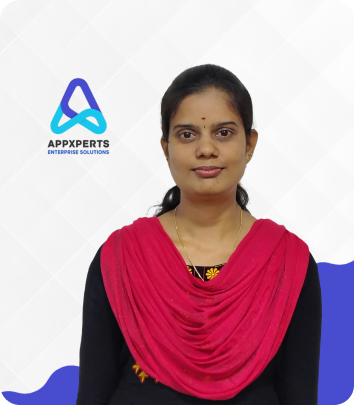
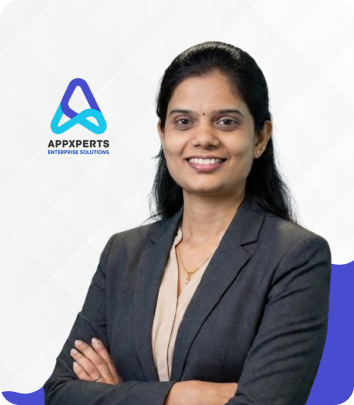
Added tagline and edited images'

diff --git a/src/components/Navigation.js b/src/components/Navigation.js
@@ -26,6 +26,7 @@ const Navigation = () => {
     <nav className="nav-responsive">
       <div className="nav-logo">
         <img src={logo} alt="AppXperts Logo" />
+        <div className="nav-tagline">We make IT possible, your IT xperts</div>
       </div>
       <div className="nav-menu-center">
         <ul className={`nav-list${menuOpen ? " nav-list-open" : ""}`}>
@@ -75,6 +76,13 @@ const Navigation = () => {
           height: auto;
           object-fit: contain;
           display: block;
+        }
+        .nav-tagline {
+          font-size: 14px;
+          color: #1a3fa6;
+          margin-top: 6px;
+          font-weight: 600;
+          text-align: left;
         }
         .nav-menu-center {
           flex: 1;

diff --git a/src/components/Footer.js b/src/components/Footer.js
@@ -61,6 +61,7 @@ const Footer = () => {
               marginBottom: 14,
             }}
           />
+          <div className="footer-tagline" style={{marginBottom:8}}>We make IT possible, your IT xperts</div>
           <p
             style={{
               color: "#555",
@@ -285,6 +286,11 @@ const Footer = () => {
             gap: 12px;
             padding: 18px 8px 24px 8px;
           }
+        }
+        .footer-tagline {
+          color: #1a3fa6;
+          font-weight: 600;
+          font-size: 12px;
         }
       `}</style>
     </footer>

diff --git a/src/components/About.js b/src/components/About.js
@@ -7,7 +7,7 @@ import CEO from '../assets/About/AASIF.png';
 import Flutter from '../assets/About/Joe.png';
 import BackEndDev from '../assets/About/Rajeshwari.png';
 import Maheswari  from '../assets/About/Maheshwari.png';
-import Keerthana from '../assets/About/Maheshwari (1).png';
+import Keerthana from '../assets/About/Keerthana.png';
 import Karthi from '../assets/About/Karthi.png';
 import Prakash from '../assets/About/Prakash.png';
 import Rabi from '../assets/About/Rabi.png';
